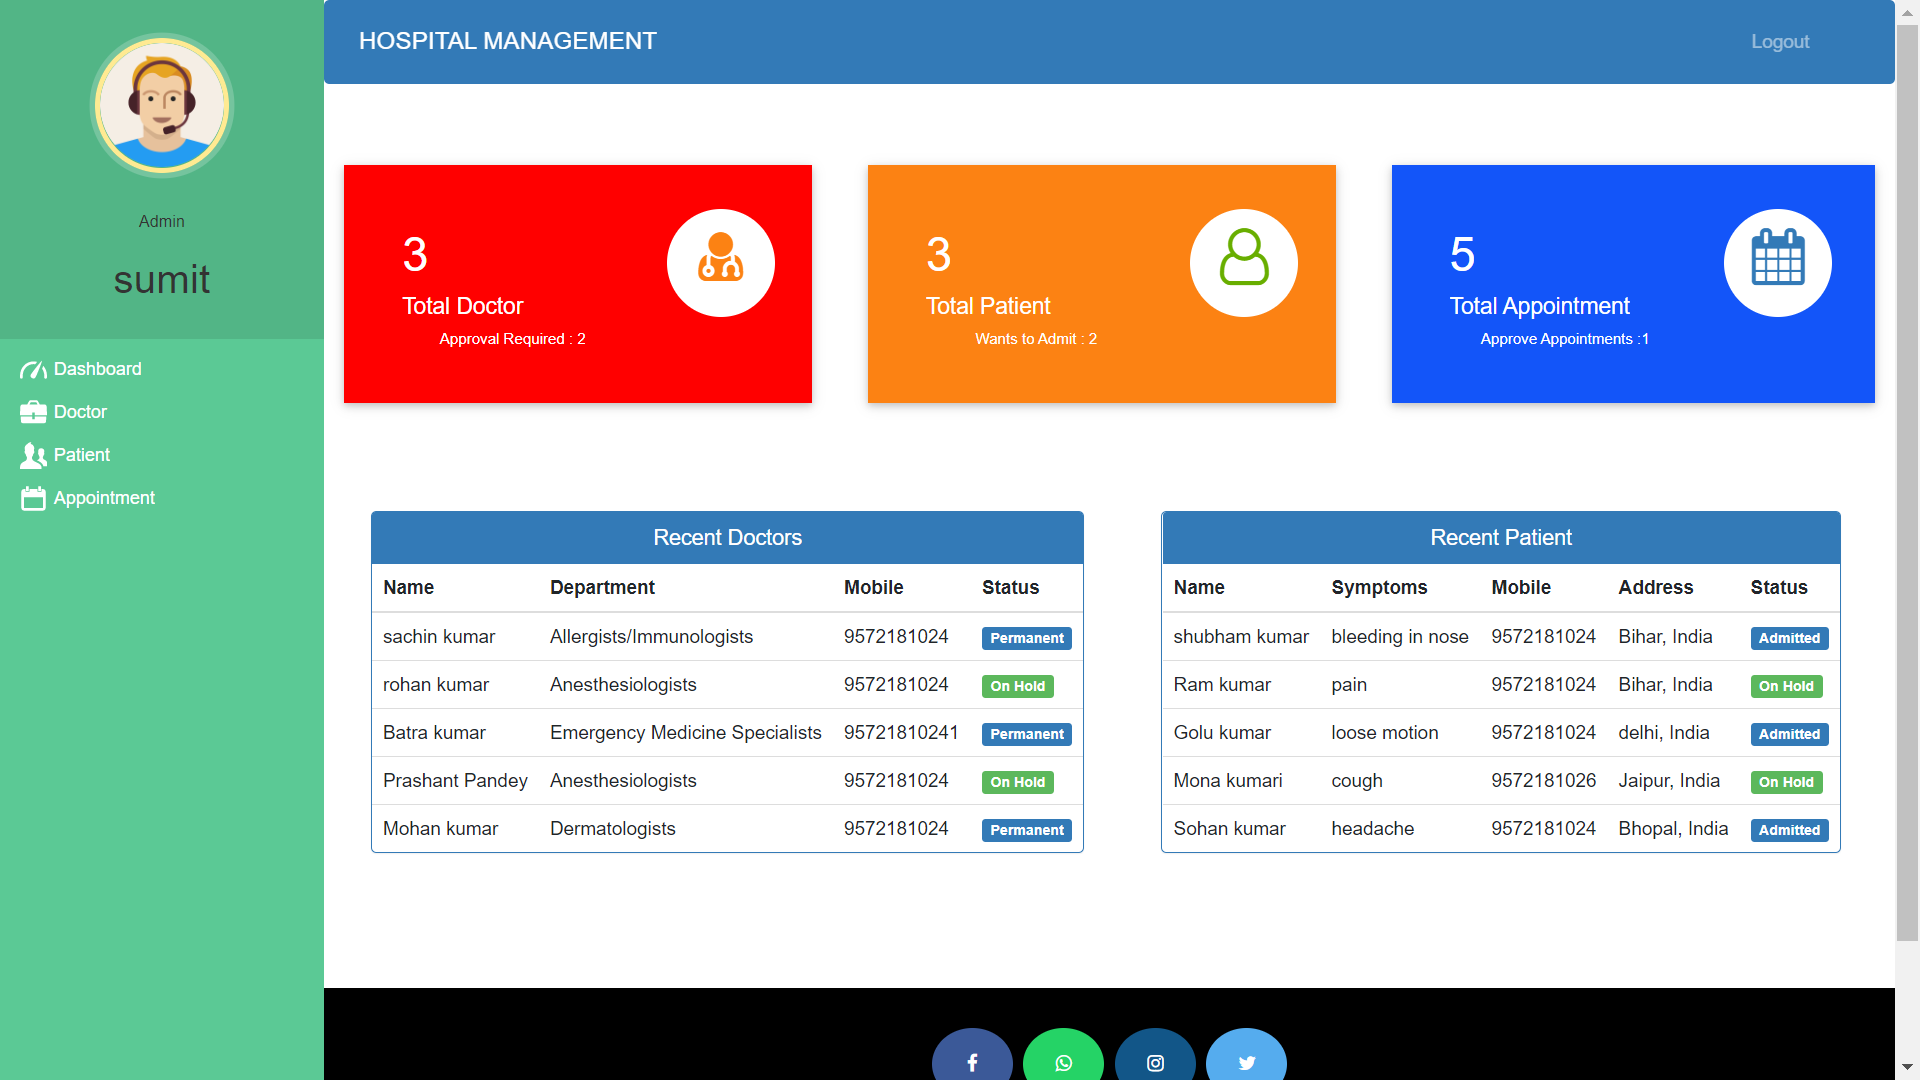
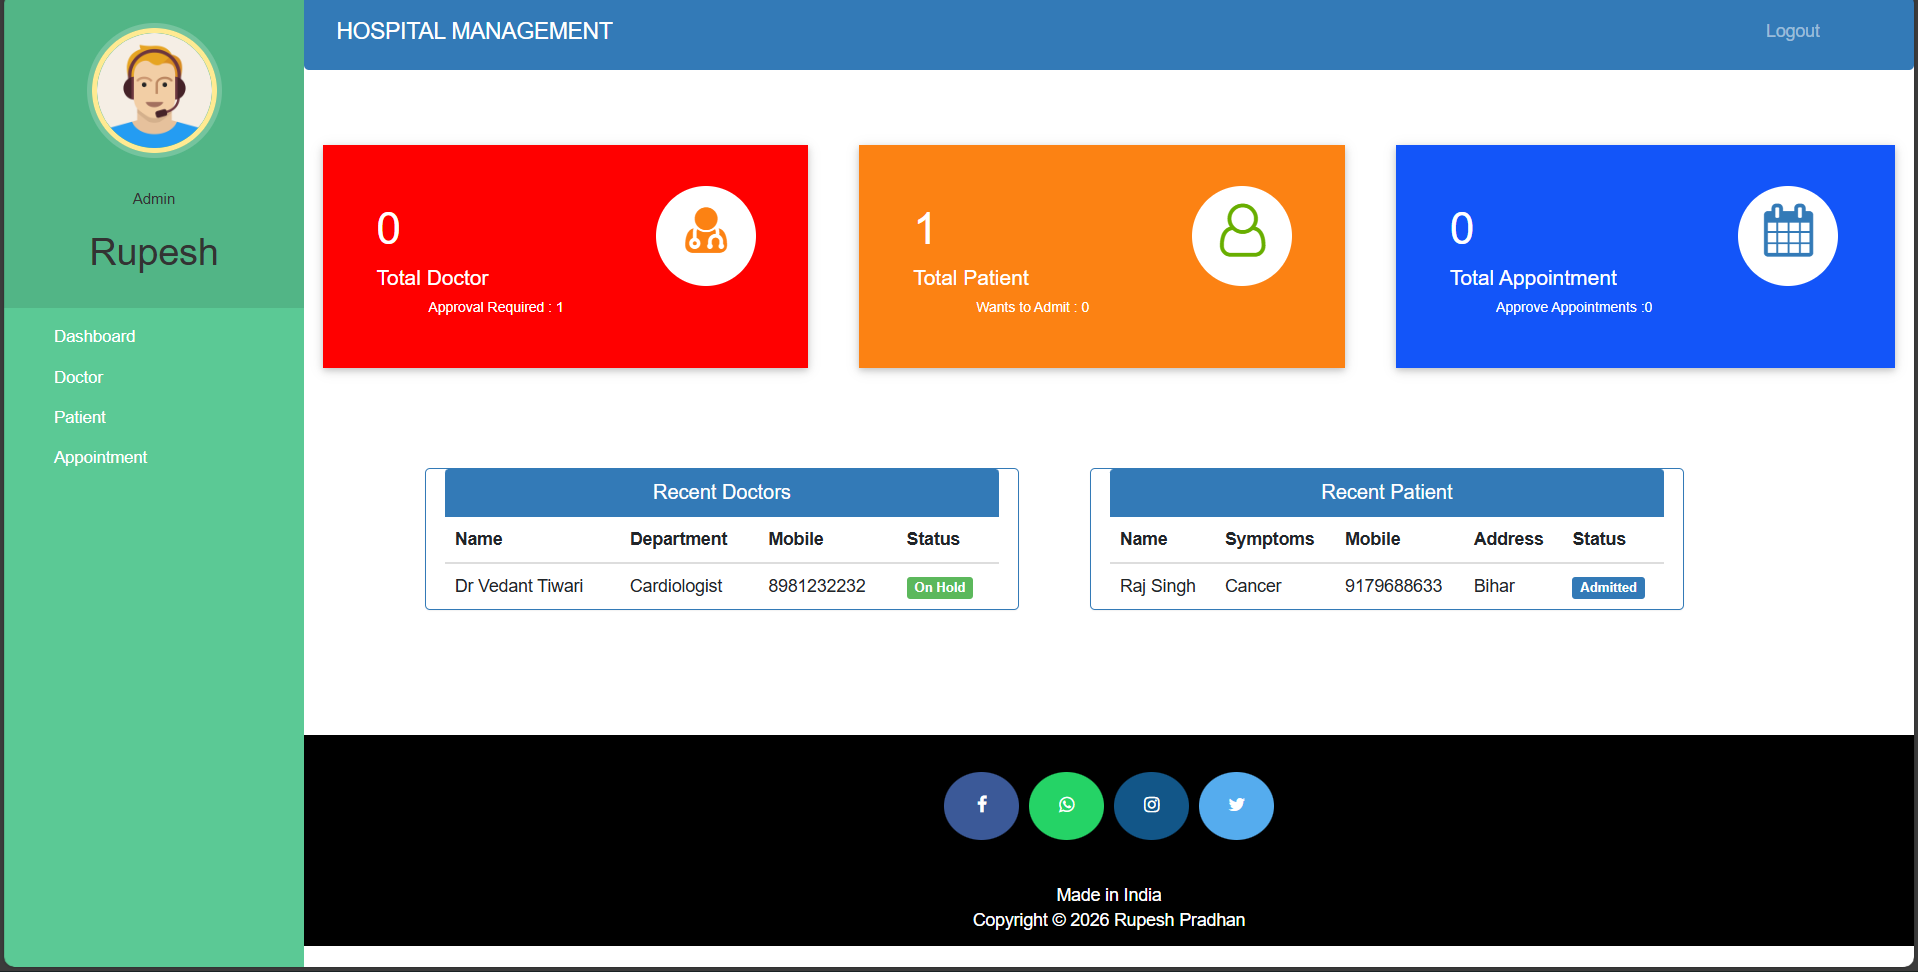
Customize UI, update README, and refresh screenshots

diff --git a/templates/hospital/footer.html b/templates/hospital/footer.html
@@ -63,10 +63,10 @@
 <footer>
 
   <p>
-    <a href="https://facebook.com/sumit.luv/" class="fa fa-facebook"></a>
-    <a href="https://api.whatsapp.com/send?phone=919572181024&text=Hello%20Sumit.%0d%0aHow%20are%20you%20%3f%0d%0aI%20came%20from%20your%20website.&source=&data=#" class="fa fa-whatsapp"></a>
-    <a href="https://instagram.com/sumit.luv" class="fa fa-instagram"></a>
-    <a href="https://twitter.com/sumitkumar1503" class="fa fa-twitter"></a>
+    <a href="" class="fa fa-facebook"></a>
+    <a href="" class="fa fa-whatsapp"></a>
+    <a href="" class="fa fa-instagram"></a>
+    <a href="" class="fa fa-twitter"></a>
   </p>
 
   <br>
@@ -75,7 +75,7 @@
       <div class="col-md-12 col-sm-12">
         <div style="color:#ffffff;" class="wow fadeInUp footer-copyright">
           <p>Made in India <br>
-            Copyright &copy; 2020 LazyCoder </p>
+            Copyright &copy; 2026 Rupesh Pradhan </p>
         </div>
       </div>
     </div>

diff --git a/templates/hospital/admin_base.html b/templates/hospital/admin_base.html
@@ -338,7 +338,7 @@
           <div class="col-md-12 col-sm-12">
             <div style="color:#ffffff;" class="wow fadeInUp footer-copyright">
               <p>Made in India <br>
-                Copyright &copy; 2020 LazyCoder </p>
+                Copyright &copy; 2026 Rupesh Pradhan </p>
             </div>
           </div>
         </div>

diff --git a/templates/hospital/doctor_base.html b/templates/hospital/doctor_base.html
@@ -324,7 +324,7 @@
           <div class="col-md-12 col-sm-12">
             <div style="color:#ffffff;" class="wow fadeInUp footer-copyright">
               <p>Made in India <br>
-                Copyright &copy; 2020 LazyCoder </p>
+                Copyright &copy; 2026 Rupesh Pradhan </p>
             </div>
           </div>
         </div>

diff --git a/templates/hospital/patient_base.html b/templates/hospital/patient_base.html
@@ -325,7 +325,7 @@
           <div class="col-md-12 col-sm-12">
             <div style="color:#ffffff;" class="wow fadeInUp footer-copyright">
               <p>Made in India <br>
-                Copyright &copy; 2020 LazyCoder </p>
+                Copyright &copy; 2026 Rupesh Pradhan </p>
             </div>
           </div>
         </div>

diff --git a/templates/hospital/adminsignup.html b/templates/hospital/adminsignup.html
@@ -6,7 +6,7 @@
 <head>
   <meta charset="utf-8">
   <meta name="viewport" content="width=device-width, initial-scale=1, shrink-to-fit=no">
-  <title>LazyCoder || sumit</title>
+  <title>HM || Rupesh</title>
   <style type="text/css">
     body {
       color: #aa082e;

diff --git a/templates/hospital/patientlogin.html b/templates/hospital/patientlogin.html
@@ -5,7 +5,7 @@
 <head>
   <meta charset="utf-8">
   <meta name="viewport" content="width=device-width, initial-scale=1, shrink-to-fit=no">
-  <title>LazyCoder || sumit</title>
+  <title>HM || Rupesh</title>
 
 
   <style type="text/css">

diff --git a/templates/hospital/download_bill.html b/templates/hospital/download_bill.html
@@ -186,10 +186,6 @@
     </table>
   </div>
 </body>
-<!--
-developed By : sumit kumar
-facebook : fb.com/sumit.luv
-youtube : youtube.com/lazycoders
--->
+
 
 </html>

diff --git a/README.md b/README.md
@@ -7,11 +7,10 @@
 ![homepage snap](https://github.com/Rupeshh03/hospital-management-system/blob/main/static/screenshots/homepage.png?raw=true)
 
 ### Admin Dashboard
-![dashboard snap](https://github.com/sumitkumar1503/hospitalmanagement/blob/master/static/screenshots/admin_dashboard.png?raw=true)
-### Invoice
-![invoice snap](https://github.com/sumitkumar1503/hospitalmanagement/blob/master/static/screenshots/invoice.png?raw=true)
-### Doctor list
-![doctor snap](https://github.com/sumitkumar1503/hospitalmanagement/blob/master/static/screenshots/admin_doctor.png?raw=true)
+![dashboard snap](https://github.com/Rupeshh03/hospital-management-system/blob/master/static/screenshots/admin_dashboard.png?raw=true)
+
+### Doctor 
+![doctor snap](https://github.com/Rupeshh03/hospital-management-system/blob/master/static/screenshots/doctor.png?raw=true)
 ---
 ## Functions
 ### Admin
@@ -77,10 +76,8 @@ https://myaccount.google.com/lesssecureapps
 This project is developed for demo purpose and it's not supposed to be used in real application.
 
 ## Feedback
-Any suggestion and feedback is welcome. You can message me on facebook
-- [Contact on Facebook](https://fb.com/sumit.luv)
-- [Subscribe my Channel LazyCoder On Youtube](https://youtube.com/lazycoders)
-
+Any suggestion and feedback is welcome. You can message me on LinkedIn
+- [Contact on LinkedIn](https://www.linkedin.com/in/rupesh-pradhan-3a172427b)
 ## Credits
 This project is based on an open-source Hospital Management System originally created by Rupesh Pradhan.  
 I have customized, fixed bugs, and extended features for learning and demonstration purposes.
